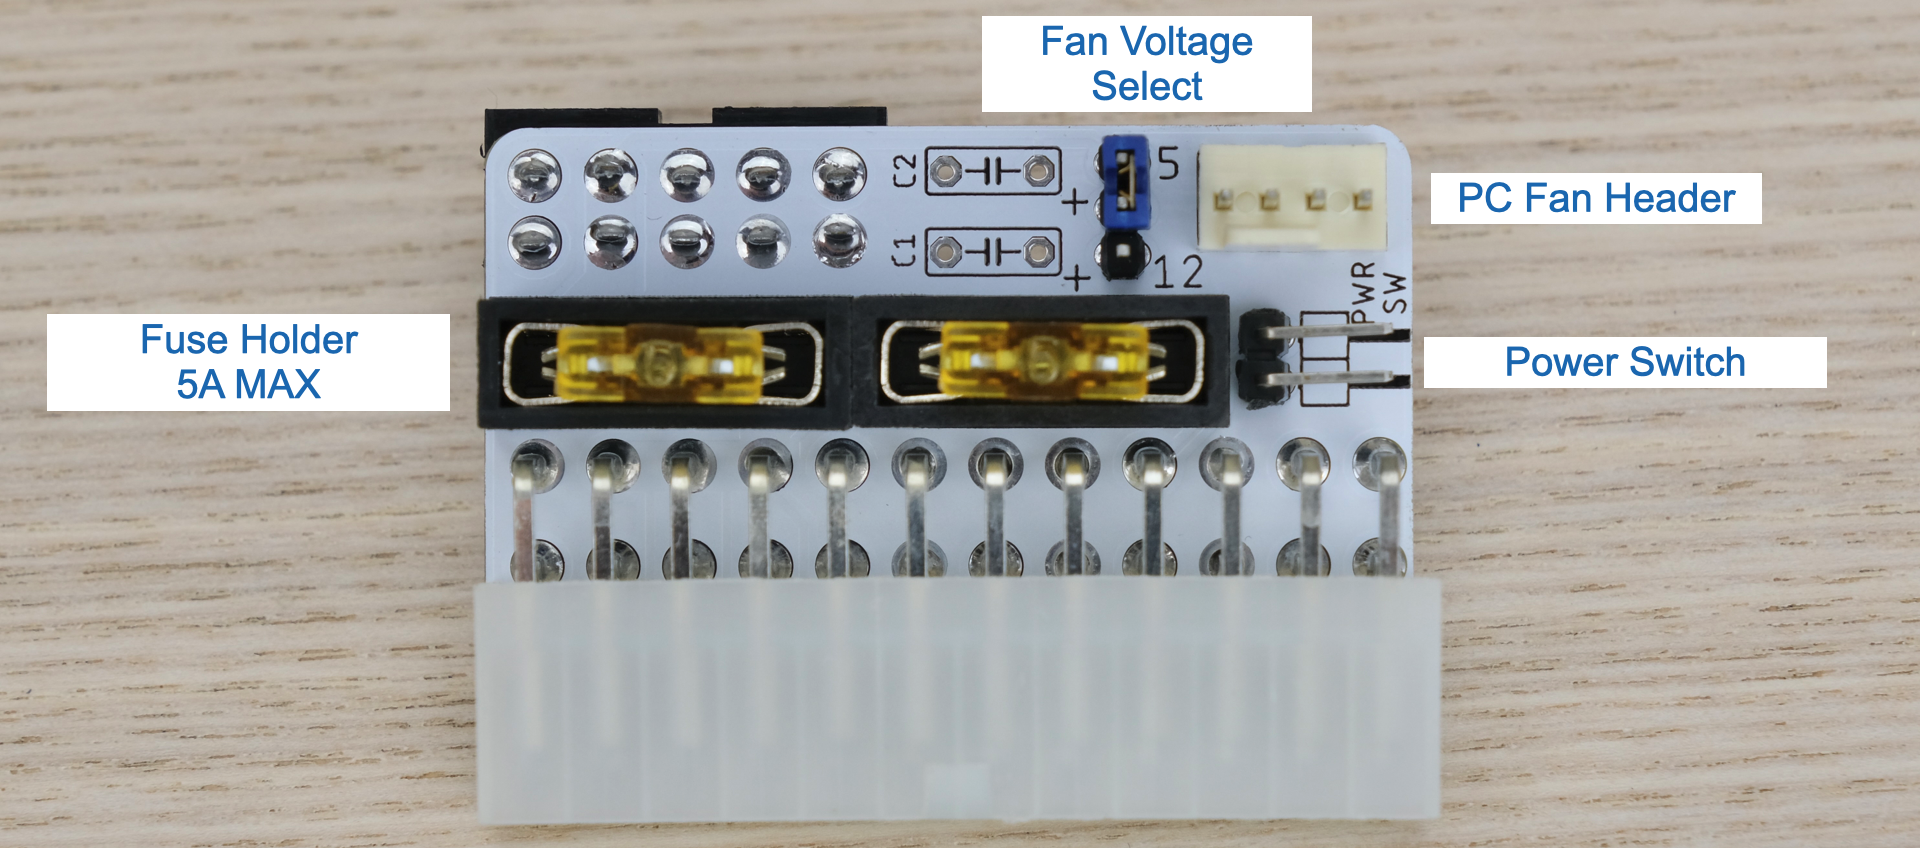
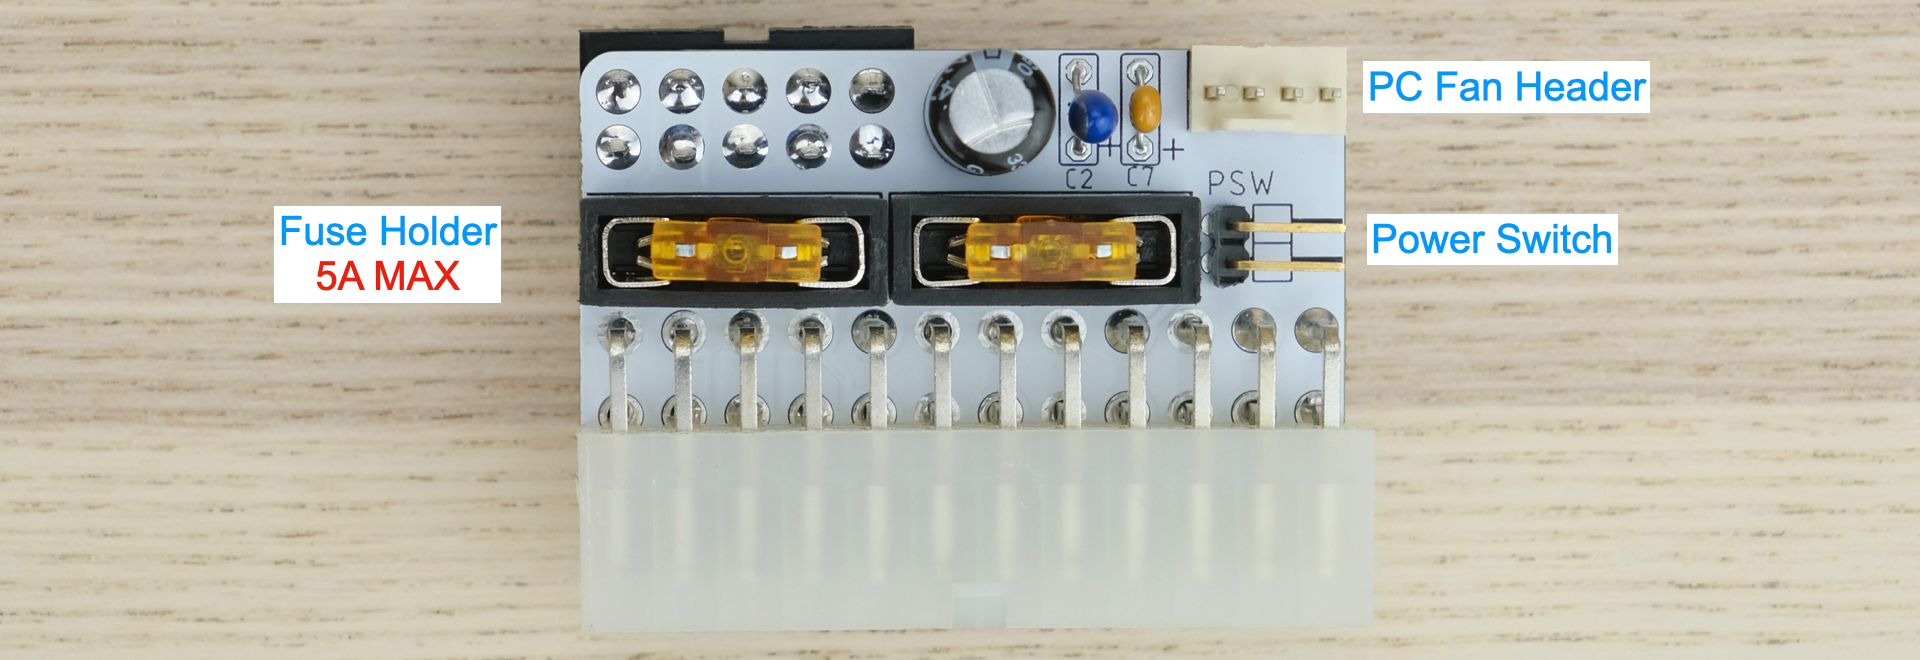
updated new version

diff --git a/mac_se_se30.md b/mac_se_se30.md
@@ -86,25 +86,19 @@ Observe the parts:
 
 ![Alt text](photos/macse/parts1.png)
 
-![Alt text](photos/macse/parts2.png)
-
 ### Soldering Notes
 
 Nothing too tricky in this kit, all basic through-hole stuff.
 
 If this is your first time, a few tips:
 
-* Make sure your soldering iron has **proper temperature control**, NOT the cheap ones with just a power switch! They get way too hot and will damage the PCB.
+* Make sure your soldering iron has **proper temperature control**. Try your local makerspace or university lab.
 
-* Use **leaded solder**, much easier to work with.
+* Use **leaded solder** and plenty of flux, temperature around 320C / 600F.
 
-* Set the temperature around 320C / 600F
+* [This video](https://www.youtube.com/watch?v=AqvHogekDI4) covers the basics pretty well.
 
-* Use plenty of flux, makes everything much easier. You can clean it off afterwards.
-
-* [This video](https://www.youtube.com/watch?v=AqvHogekDI4) covers the basics pretty well, you can also watch others by searching `how to solder`.
-
-* Try your local makerspace or university lab too!
+* Start from shortest to tallest. Solder **a single pin** first, and make sure the part is straight.
 
 ### Assembly
 
@@ -118,13 +112,15 @@ Everything else is on top side:
 
 ![Alt text](photos/macse/note.png)
 
-Start from shortest component to tallest. Insert component, hold in place with masking tape or sticky putty.
+* Double check capacitor polarity!
 
-Flip it over and solder **a single pin** first, then make sure the part is **straight in all directions**.
+* Black electrolytic cap: White stripe is **NEGATIVE**.
 
-If not, you can adjust it while melting that single pin. Once happy, solder the rest of the pins.
+* Blue Tantalum cap: White stripe is **POSITIVE**.
 
-Make sure the solder melts properly and wets both the pin and pad to prevent cold solder joints, especially on thicker power pins.
+* Yellow ceramic cap: No polarity.
+
+![Alt text](photos/macse/ref.jpeg)
 
 ----
 
@@ -158,23 +154,9 @@ Make sure it is **completely dry** before proceeding.
 
 ## Board Features
 
-If not already done, install two fuses and the jumpers as shown below:
+Install two fuses as shown below:
 
 ![Alt text](photos/macse/feature.png)
-
-### Power Switch
-
-The pin header is connected to the ATX `PS_ON` pin.
-
-Shorting them together turns on the PSU.
-
-### PC Fan Header
-
-* Any standard 3 or 4-pin PC fan should work
-
-* Run it at 5V or 12V by changing the jumper
-
-* 12V is full speed, 5V is much quieter.
 
 ### Fuse
 
@@ -184,9 +166,15 @@ Shorting them together turns on the PSU.
 
 * **DO NOT BYPASS FUSES**
 
-### Filtering Cap (Optional)
+### Power Switch
 
-* You can add a filtering cap to +5V and +12V rails, note the polarity if using electrolytic caps.
+The pin header is connected to the ATX `PS_ON` pin.
+
+Shorting them together turns on the PSU.
+
+### PC Fan Header
+
+* Any standard 3 or 4-pin 12V PC fan should work
 
 ## Pre-flight Checks
 
@@ -238,7 +226,7 @@ Further disassembly is needed to remove the old PSU.
 
 ![Alt text](photos/macse/bracket.jpeg)
 
-* Unplug the neck board by **gently wiggle side-to-side** while **lifting straight up**
+* Unplug the neck board by **gently lifting straight up**
 
 ![Alt text](photos/macse/neck.jpeg)
 
@@ -296,27 +284,27 @@ Ideas include:
 
 * [Clean and lube the floppy drive](https://www.youtube.com/watch?v=0pGhwtyFG2I)
 
-* Check motherboard for corrosion and cap/battery leakage
+* Check motherboard for corrosion and leakage
 
 * [Re-cap the motherboard](https://www.youtube.com/watch?v=QArvemlZUJY) if not already done
 
 * [Check analog board](https://www.youtube.com/watch?v=zC0qi5dQsWs) for cracked solder joints
 
-* General cleaning / blow out the dust
+* General cleaning / blow out dust
 
 ### Install PicoPSU
 
 With maintenance done, time to install the new PSU!
 
-* Insert two 8mm screws into the top two PSU mounting holes, then install the standoffs to hold it in place.
+* Insert two screws into the mounting holes near the edge, then install the standoffs from the other side
 
-* Your screwdriver set might have a bit that fits the standoff, makes it much easier.
+* Use 5mm socket bit to tighten.
 
 ![Alt text](photos/macse/edge.png)
 
 * Plug PicoPSU into ATX connector
 
-* Use jumper cable to connect the header between two PCBs
+* Use jumper wire to connect the header between two PCBs
 
 ![Alt text](photos/macse/assy.jpeg)
 
@@ -354,7 +342,7 @@ Time to put everything back! Pretty much the opposite of disassembly!
 
 * Double check for short circuit if you want
 
-If everything checks out, take a breath and plug it in and switch on.
+If everything checks out, take a breath, plug it in and turn it on.
 
 If your Mac was working before, hopefully it still does!
 
@@ -368,7 +356,7 @@ And if it doesn't work, [check out the troubleshooting guide](#troubleshooting).
 
 There's already a fan inside Mac SE, but you can add another one or replace it.
 
-Any regular PC fan should work, you can run it at 12V (full speed) or 5V (quieter).
+Any regular PC fan should work.
 
 Make sure the fan is secured, nothing touches the blade, and air flow direction is correct.
 
@@ -416,7 +404,7 @@ I had this happen with a knock-off generic PicoPSU, changing to another one fixe
 
 ### Screen Wobbles
 
-* If it happens when floppy drive is active, try using a beefier power brick, or add decoupling capacitors.
+* If it happens when floppy drive is active, try using a beefier power brick, or add more decoupling capacitors.
 
 * If happens while idle, make sure the fan is not too close to the CRT.
 
